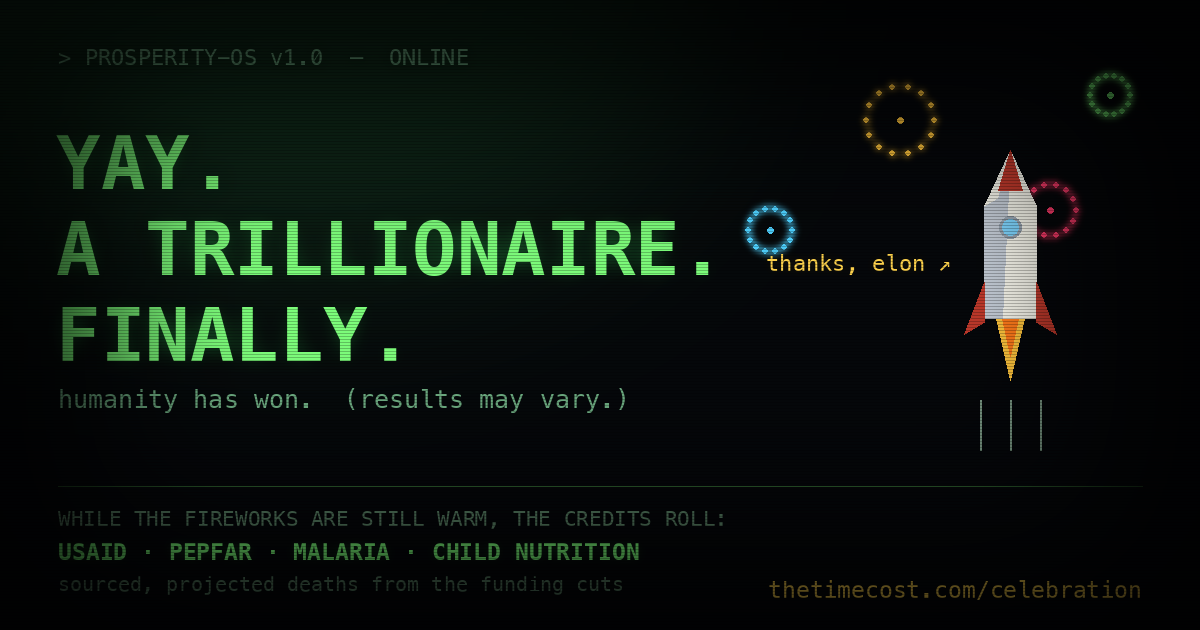
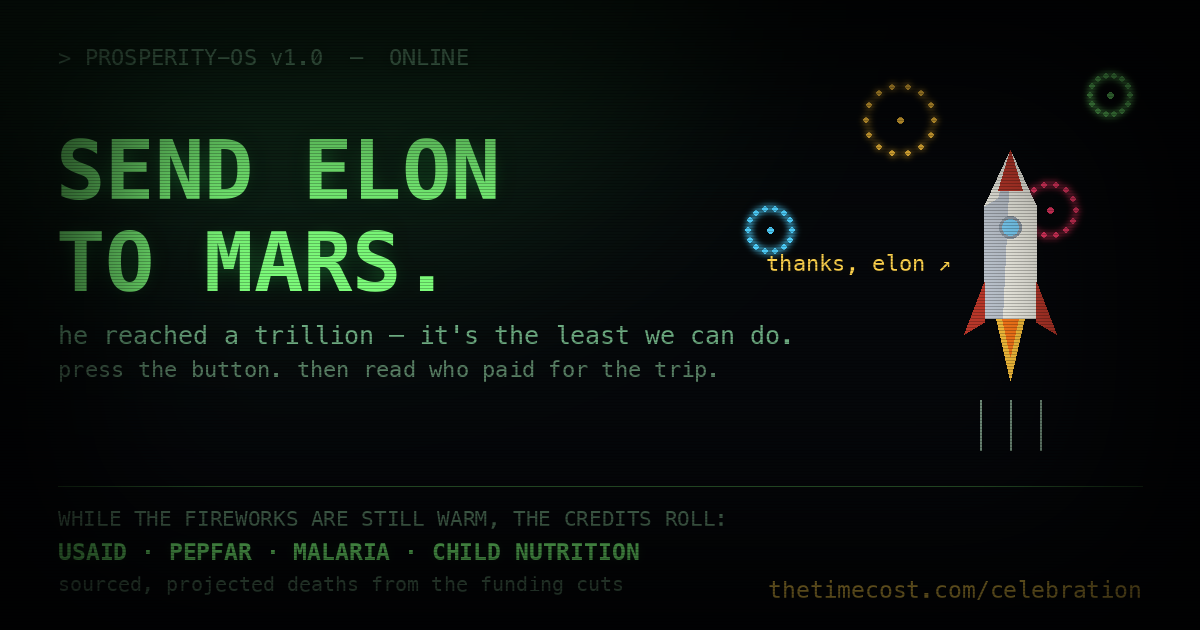
Celebration → 'Send Elon to Mars': interactive launch button
Reframe the page around the Mars send-off and make it participatory:
- Type the PROSPERITY-OS intro, then surface a big pulsing '🚀 SEND HIM TO MARS'
  button that GATES the launch. Pressing it fires the whole sequence (fireworks,
  the cost dump, Tron collapse, walk, and the rocket on 'now get your ass to
  Mars, buddy'). Replays read 'SEND HIM AGAIN'. 7s no-click fallback auto-fires so
  it still plays for passive viewers/embeds.
- Start on load directly (the IntersectionObserver autostart was flaky in embeds).
- Rename title/meta/OG to 'Send Elon to Mars'; regenerate the OG share image with
  the new headline. URL stays /celebration.

The cost reveal is untouched — the click just hands the viewer the trigger.
Verified: gate holds, click launches within 500ms (not the fallback), full
sequence + hacker dump play, desktop + mobile, reduced-motion safe.

Changed region(s): [[0.0308, 0.2111, 0.5858, 0.6635], [0.3392, 0.5127, 0.6475, 0.5429]]

diff --git a/templates/trillionaire_credits.html b/templates/trillionaire_credits.html
@@ -1,17 +1,17 @@
 {% extends "base.html" %}
-{% block title %}The Celebration — Trillionaire Time{% endblock %}
+{% block title %}Send Elon to Mars — TimeCost{% endblock %}
 {% block meta %}
-<meta name="description" content="A fake 80s-computer celebration of the world's first trillionaire — and the real, sourced human cost of the funding cuts, rolling underneath as credits." />
-<meta property="og:title" content="The Celebration (and the credits)" />
-<meta property="og:description" content="Yay. A trillionaire. While the fireworks are still warm, here's what it cost — real programs, real populations, real projections." />
+<meta name="description" content="He reached a trillion — so press the button and send him to Mars. Then watch the real, sourced human cost of the funding cuts dump out like a leaked file." />
+<meta property="og:title" content="Send Elon to Mars" />
+<meta property="og:description" content="He reached a trillion. The least we can do is send him to Mars. Press the button — then read who paid for the trip." />
 <meta property="og:type" content="website" />
 <meta property="og:url" content="https://thetimecost.com/celebration" />
 <meta property="og:image" content="https://thetimecost.com/static/og-celebration.png" />
 <meta property="og:image:width" content="1200" />
 <meta property="og:image:height" content="630" />
 <meta name="twitter:card" content="summary_large_image" />
-<meta name="twitter:title" content="The Celebration (and the credits)" />
-<meta name="twitter:description" content="Yay. A trillionaire. While the fireworks are still warm, here's the sourced human cost of the funding cuts." />
+<meta name="twitter:title" content="Send Elon to Mars" />
+<meta name="twitter:description" content="He reached a trillion. The least we can do is send him to Mars. Press the button — then read who paid for the trip." />
 <meta name="twitter:image" content="https://thetimecost.com/static/og-celebration.png" />
 {% endblock %}
 
@@ -173,6 +173,19 @@
   .cf-hack .hk-impact{ color:#f0e9da; }
   .cf-hack .hk-coda{ color:#ffd34d; margin-top:12px; }
 
+  /* ===== the "send him to mars" launch button ===== */
+  .cf-launchbtn{ position:absolute; left:50%; top:47%; transform:translate(-50%,-50%);
+    z-index:7; display:none; cursor:pointer; pointer-events:auto;
+    font-family:'Share Tech Mono', ui-monospace, monospace; font-size:clamp(1rem,3.6vw,1.4rem);
+    background:#7CFC7A; color:#06210f; border:none; border-radius:12px; padding:16px 28px;
+    letter-spacing:.04em; box-shadow:0 0 28px rgba(124,252,122,.6); white-space:nowrap; }
+  .cf-launchbtn.show{ display:inline-block; animation:pulse 1.4s ease-in-out infinite; }
+  .cf-launchbtn:hover{ background:#9affa0; }
+  @keyframes pulse{
+    0%,100%{ transform:translate(-50%,-50%) scale(1);    box-shadow:0 0 26px rgba(124,252,122,.5); }
+    50%    { transform:translate(-50%,-50%) scale(1.06); box-shadow:0 0 42px rgba(124,252,122,.95); }
+  }
+
   .cf-thanks{ margin:0 auto 60px; max-width:560px; }
   .cf-thanks-label{ color:#6f9a7e; text-transform:uppercase; letter-spacing:.2em; font-size:.78rem; }
   .cf-thanks-name{ font-size:2rem; color:#ffd34d; text-shadow:0 0 12px rgba(255,211,77,.55);
@@ -244,7 +257,8 @@
     .cf-stage.js.celebrate .cf-fw span,
     .cf-stage.js.rolling .cf-bldg,
     .cf-stage.js.rolling .cf-grid,
-    .cf-stage.js.launch .cf-beam{ animation:none; }
+    .cf-stage.js.launch .cf-beam,
+    .cf-launchbtn.show{ animation:none; }
     .cf-stage.js .cf-roll-inner{ transform:none; }
   }
 </style>
@@ -367,6 +381,8 @@
       </div>
     </div>
 
+    <button type="button" class="cf-launchbtn" id="cfLaunchBtn">🚀 SEND HIM TO MARS</button>
+
     <div class="cf-crt"></div>
   </section>
 
@@ -406,22 +422,25 @@
 
   var reduce = window.matchMedia && window.matchMedia('(prefers-reduced-motion: reduce)').matches;
 
-  // [text, class, sideEffectClassToAddAfter]
-  var SCRIPT = [
-    ['PROSPERITY-OS v1.0  —  ONLINE', 'sys', null],
-    ["OH, WHAT A CELEBRATION WE'LL HAVE TODAY.", '', null],
-    // fireworks AND the credits start together:
-    ['THANK GOODNESS SOMEONE REACHED A TRILLION.', 'sys', 'celebrate rolling'],
-    ["A HUMAN FEAT THAT WOULDN'T BE POSSIBLE", '', 'walk'],
+  // [text, class] — typed on load, THEN the launch button appears
+  var INTRO = [
+    ['PROSPERITY-OS v1.0  —  ONLINE', 'sys'],
+    ["OH, WHAT A CELEBRATION WE'LL HAVE TODAY.", ''],
+    ['THANK GOODNESS SOMEONE REACHED A TRILLION.', 'sys'],
+    ['ONE SMALL FORMALITY REMAINS, CITIZEN:', ''],
+  ];
+  // [text, class, sideEffectClassToAddAfter] — typed AFTER the button is pressed
+  var REST = [
+    ["A HUMAN FEAT THAT WOULDN'T BE POSSIBLE", '', null],
     ['WITHOUT ALL THE LITTLE PEOPLE HE MURDERED ALONG THE WAY.', 'warn', null],
     ['SOMETIMES, LITERALLY.', 'warn', null],
     ['NOW GET YOUR ASS TO MARS, BUDDY. 🚀', '', 'launch'],
     ['GODSPEED, SIR.  ☑', '', null],
     ['(THE NAMES BELOW ARE STILL SCROLLING. IT IS A LONG LIST.)', 'warn', null],
   ];
-  // single quiet sign-off once the credits finish rolling
+  // single quiet sign-off once the credits finish
   var CODA = [
-    ['— SESSION COMPLETE. PRESS REPLAY TO CELEBRATE AGAIN. —', 'sys', null],
+    ['— SESSION COMPLETE. PRESS “SEND HIM AGAIN” TO REPEAT. —', 'sys'],
   ];
 
   var cursor;
@@ -517,31 +536,61 @@
   }
 
   var gen = 0;
+  // ===== the "SEND HIM TO MARS" launch button gate =====
+  var btn = document.getElementById('cfLaunchBtn');
+  var pending = null;          // { my, resolve, fb }
+  var hasRun = false;
+  function armLaunch(my) {
+    return new Promise(function (resolve) {
+      btn.textContent = hasRun ? '🚀 SEND HIM AGAIN' : '🚀 SEND HIM TO MARS';
+      btn.classList.add('show');
+      // fallback: if nobody clicks, send him anyway (keeps it alive for passive viewers / embeds)
+      var fb = setTimeout(function () { fireLaunch(my); }, 7000);
+      pending = { my: my, resolve: resolve, fb: fb };
+    });
+  }
+  function fireLaunch(my) {
+    if (!pending || pending.my !== my || my !== gen) return;
+    clearTimeout(pending.fb);
+    btn.classList.remove('show');
+    var r = pending.resolve; pending = null;
+    r();
+  }
+  if (btn) btn.addEventListener('click', function () { if (pending) fireLaunch(pending.my); });
+
   async function run(fromCreditsOnly) {
     var my = ++gen;                       // any in-flight run with an older id bails out
     stage.className = 'cf-stage js crtflicker';
     term.innerHTML = '';
+    if (btn) btn.classList.remove('show');
     makeCursor();
 
-    var seq = SCRIPT.slice();
-    if (fromCreditsOnly) {
-      // jump straight to the fireworks + credits roll
-      stage.classList.add('celebrate');
-      seq = SCRIPT.slice(2);
+    if (!fromCreditsOnly) {
+      // type the intro, then wait for the viewer to press SEND HIM TO MARS
+      for (var a = 0; a < INTRO.length; a++) {
+        await typeLine(INTRO[a][0], INTRO[a][1], my);
+        if (my !== gen) return;
+        await wait(540);
+        if (my !== gen) return;
+      }
+      await armLaunch(my);
+      if (my !== gen) return;
     }
+    hasRun = true;
 
-    var rollStart = 0;
-    for (var k = 0; k < seq.length; k++) {
-      await typeLine(seq[k][0], seq[k][1], my);
+    // the send-off: fireworks + the cost dump + city collapse + he walks, all at once
+    stage.classList.add('celebrate', 'rolling', 'walk');
+    var rollStart = Date.now();
+    streamCredits(my);
+
+    for (var k = 0; k < REST.length; k++) {
+      await typeLine(REST[k][0], REST[k][1], my);
       if (my !== gen) return;
-      if (seq[k][2]) seq[k][2].split(' ').forEach(function (cn) {
-        stage.classList.add(cn);
-        if (cn === 'rolling') { rollStart = Date.now(); streamCredits(my); }
-      });
-      await wait(seq[k][0] === '…' ? 700 : 560);
+      if (REST[k][2]) REST[k][2].split(' ').forEach(function (cn) { stage.classList.add(cn); });
+      await wait(560);
       if (my !== gen) return;
     }
-    // the credits began mid-walk — let them finish their ~30s roll, then sign off
+    // let the cost finish dumping, then sign off
     await wait(reduce ? 600 : Math.max(1500, 30000 - (Date.now() - rollStart)));
     if (my !== gen) return;
     for (var j = 0; j < CODA.length; j++) {
@@ -563,13 +612,8 @@
     else { var t = document.createElement('textarea'); t.value = url; document.body.appendChild(t); t.select(); try { document.execCommand('copy'); } catch (e) {} document.body.removeChild(t); done(); }
   });
 
-  // autostart when the stage scrolls into view
-  if ('IntersectionObserver' in window) {
-    var io = new IntersectionObserver(function (es) {
-      es.forEach(function (e) { if (e.isIntersecting) { io.disconnect(); run(false); } });
-    }, { threshold: 0.4 });
-    io.observe(stage);
-  } else { run(false); }
+  // kick off on load — types the intro, then waits on the SEND HIM TO MARS button
+  run(false);
 })();
 </script>
 {% endblock %}

diff --git a/scripts/generate_celebration_og.py b/scripts/generate_celebration_og.py
@@ -53,12 +53,12 @@ def glow_text(pos, text, font, fill, anchor="la", glow_rgb=None, blur=9):
 # --- header prompt ---
 glow_text((58, 44), "> PROSPERITY-OS v1.0  —  ONLINE", mono(22), DIMGREEN, glow_rgb=(40, 110, 60), blur=6)
 
-# --- the sarcastic headline (phosphor green, glowing) ---
-hl = mono(74, bold=True)
-glow_text((56, 120), "YAY.",            hl, GREEN, glow_rgb=(40, 160, 70), blur=11)
-glow_text((56, 206), "A TRILLIONAIRE.", hl, GREEN, glow_rgb=(40, 160, 70), blur=11)
-glow_text((56, 292), "FINALLY.",        hl, GREEN, glow_rgb=(40, 160, 70), blur=11)
-d.text((58, 384), "humanity has won.  (results may vary.)", font=mono(25), fill=DIMGREEN + (255,))
+# --- the headline (phosphor green, glowing) ---
+hl = mono(82, bold=True)
+glow_text((56, 122), "SEND ELON", hl, GREEN, glow_rgb=(40, 160, 70), blur=11)
+glow_text((56, 214), "TO MARS.",  hl, GREEN, glow_rgb=(40, 160, 70), blur=11)
+d.text((58, 320), "he reached a trillion — it's the least we can do.", font=mono(25), fill=DIMGREEN + (255,))
+d.text((58, 356), "press the button. then read who paid for the trip.", font=mono(22), fill=FAINT + (255,))
 
 
 # --- fireworks (upper-right sky) ---